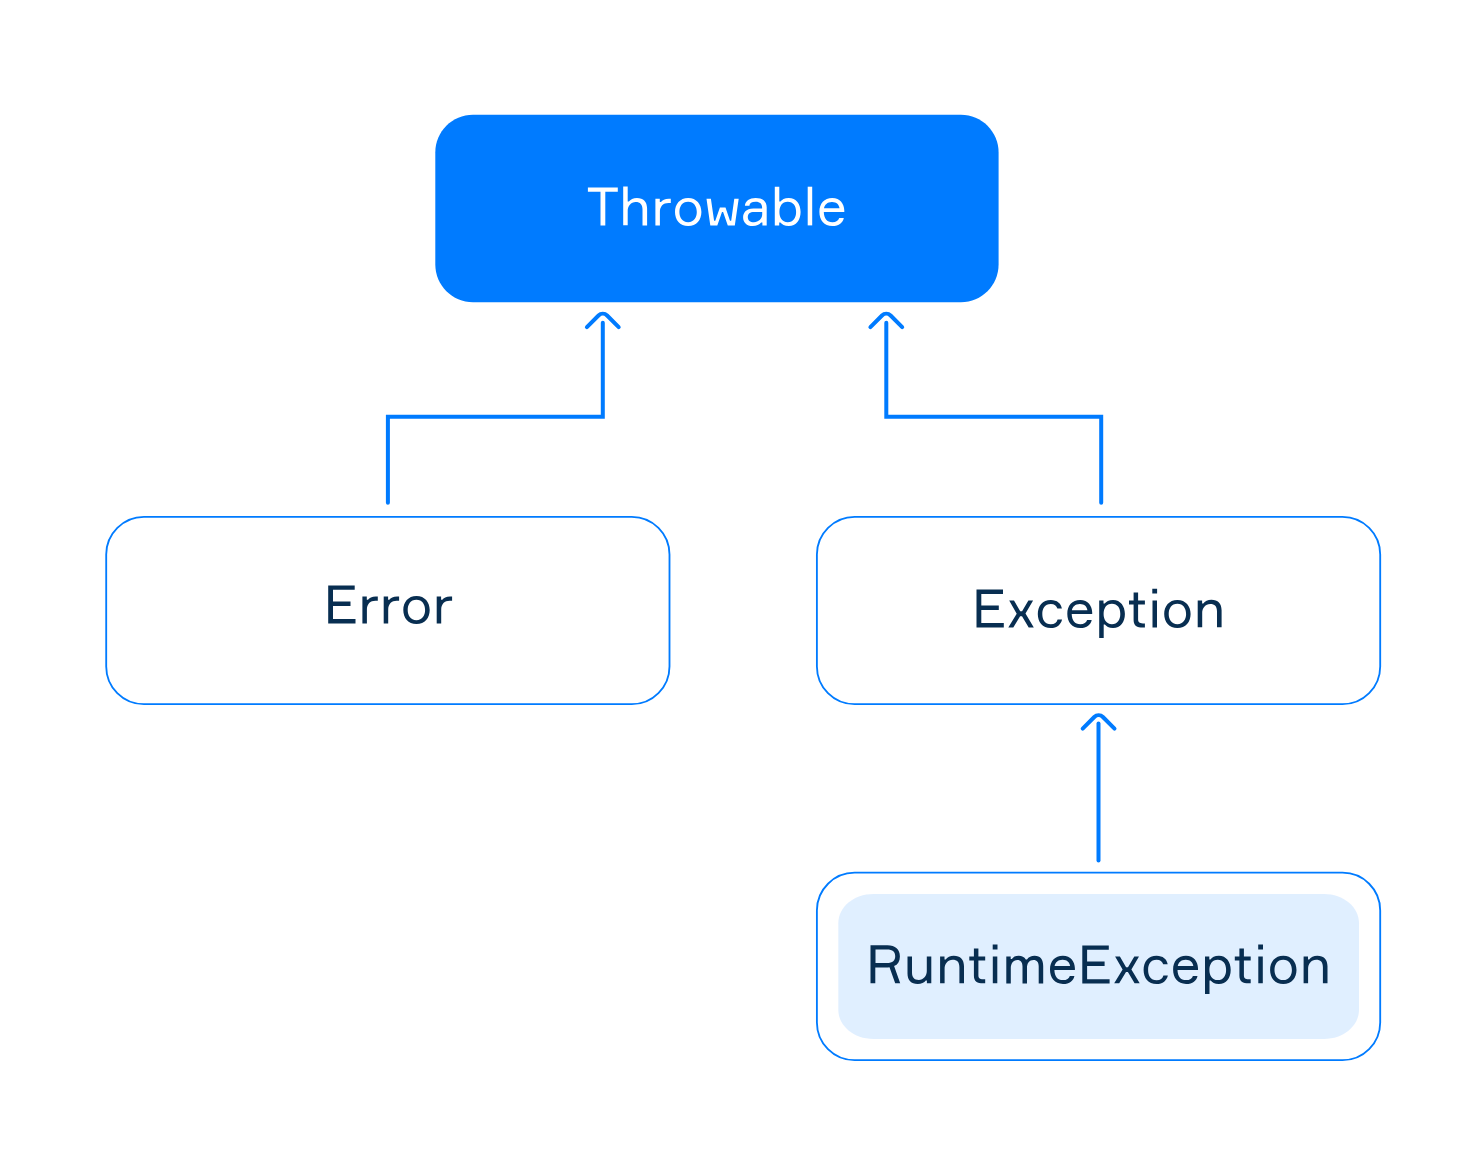
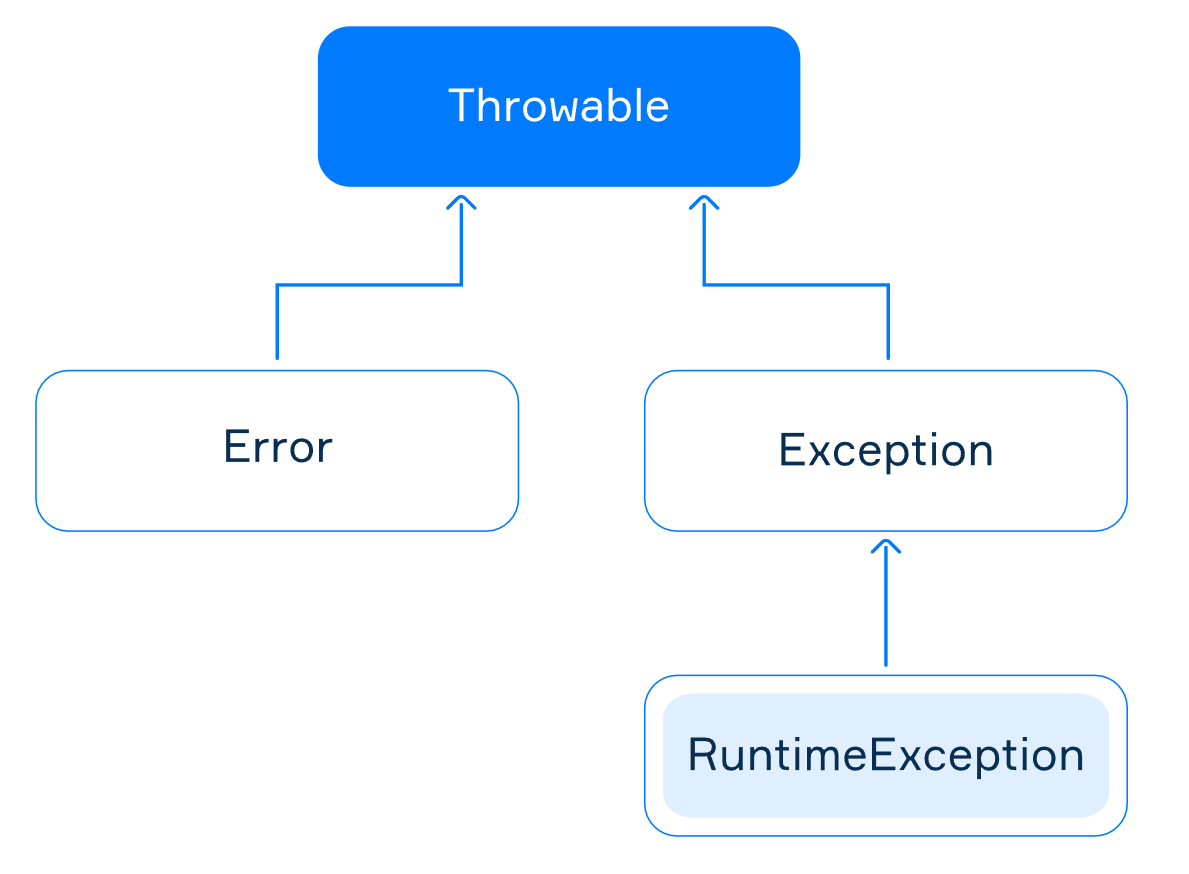
Fix image paths in Kotlin error handling documentation for consistency

diff --git a/General/ComputerScience/1_ProgrammingLanguages/Kotlin/3_AdditionalInstruments/5_ErrorlessCode/0_ErrorInPrograms.md b/General/ComputerScience/1_ProgrammingLanguages/Kotlin/3_AdditionalInstruments/5_ErrorlessCode/0_ErrorInPrograms.md
@@ -55,8 +55,7 @@ We can state the fact that coffee and tea are both related to a specific type: d
 
 The following picture illustrates a simplified hierarchy of exceptions:
 
-
-![alt text](../resources/Overview_of_the_exception_hierarchy.png)
+![alt text](/resources/Overview_of_the_exception_hierarchy.png)
 
 As you can see, the foundation of this hierarchy is the type `Throwable`. It is the root of the hierarchy, and all exceptions somehow belong to this type. It provides a set of useful methods for handling exceptions.
 
@@ -105,11 +104,11 @@ In Kotlin, type Any is a **supertype** for all types (**Any is at the top of the
 
 While type `Any` is a supertype for all types that do not support null, `Any?` is a supertype for types that can be either `null` or not. **From this fact, it follows that type Any? is a supertype for type Any**
 
-![alt text](../resources/super_type_for_any.png)
+![alt text](/resources/super_type_for_any.png)
 
 Non-null type is a subtype of its nullable equivalents, for example, type `Number` is a subtype of type `Number?`, and type `Int` is a subtype of type `Int?`. Let's see what it looks like:
 
-![alt text](../resources/non_null_type_is_a_subtype_of_its_nullable_equivalents.png)
+![alt text](/resources/non_null_type_is_a_subtype_of_its_nullable_equivalents.png)
 
 This is why you can store a non-null `Number` value in a nullable `Number?` variable, but you cannot store a nullable `Number?` value in a non-null `Number` variable.
 
@@ -119,4 +118,4 @@ This is why you can store a non-null `Number` value in a nullable `Number?` vari
 
 Like any other type, `Unit` is a subtype of `Any`. It can also be a nullable `Unit?`, which is a subtype of `Any?`.
 
-![alt text](../resources/unit_type.png)
+![alt text](/resources/unit_type.png)
